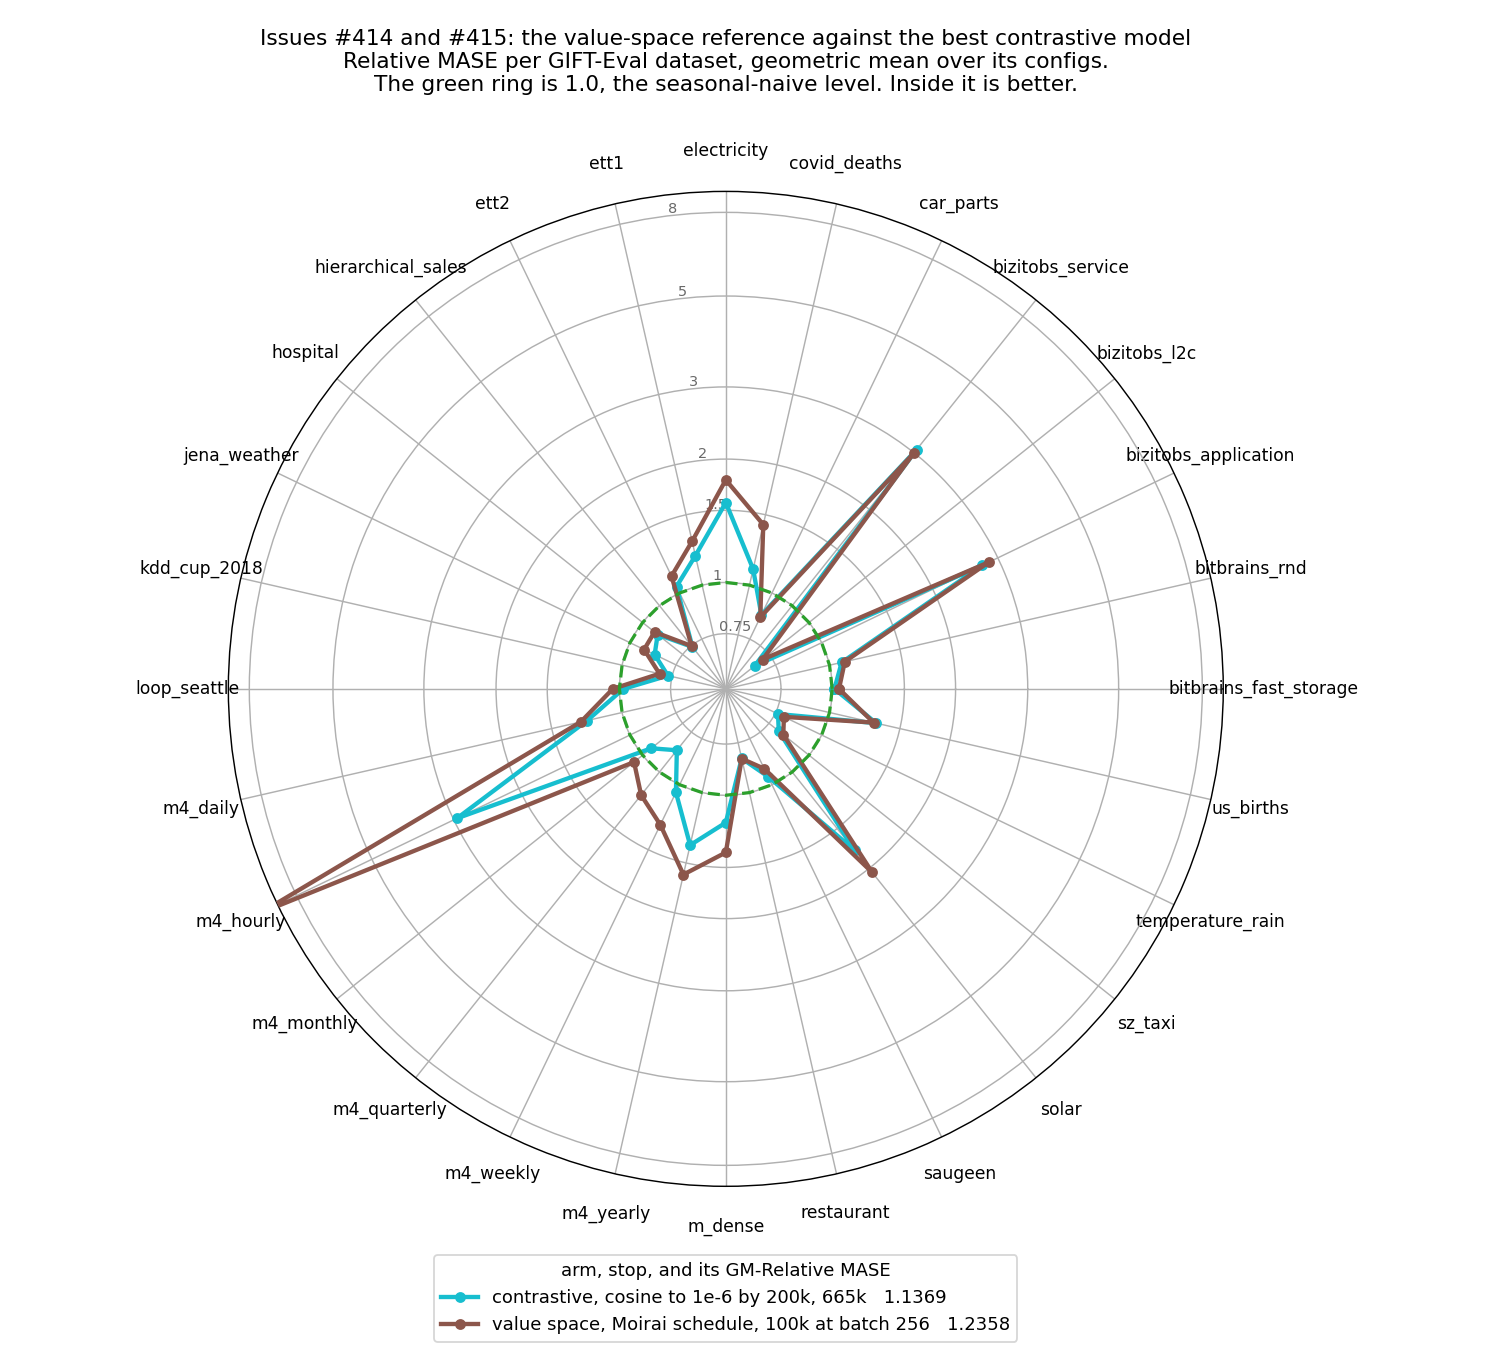
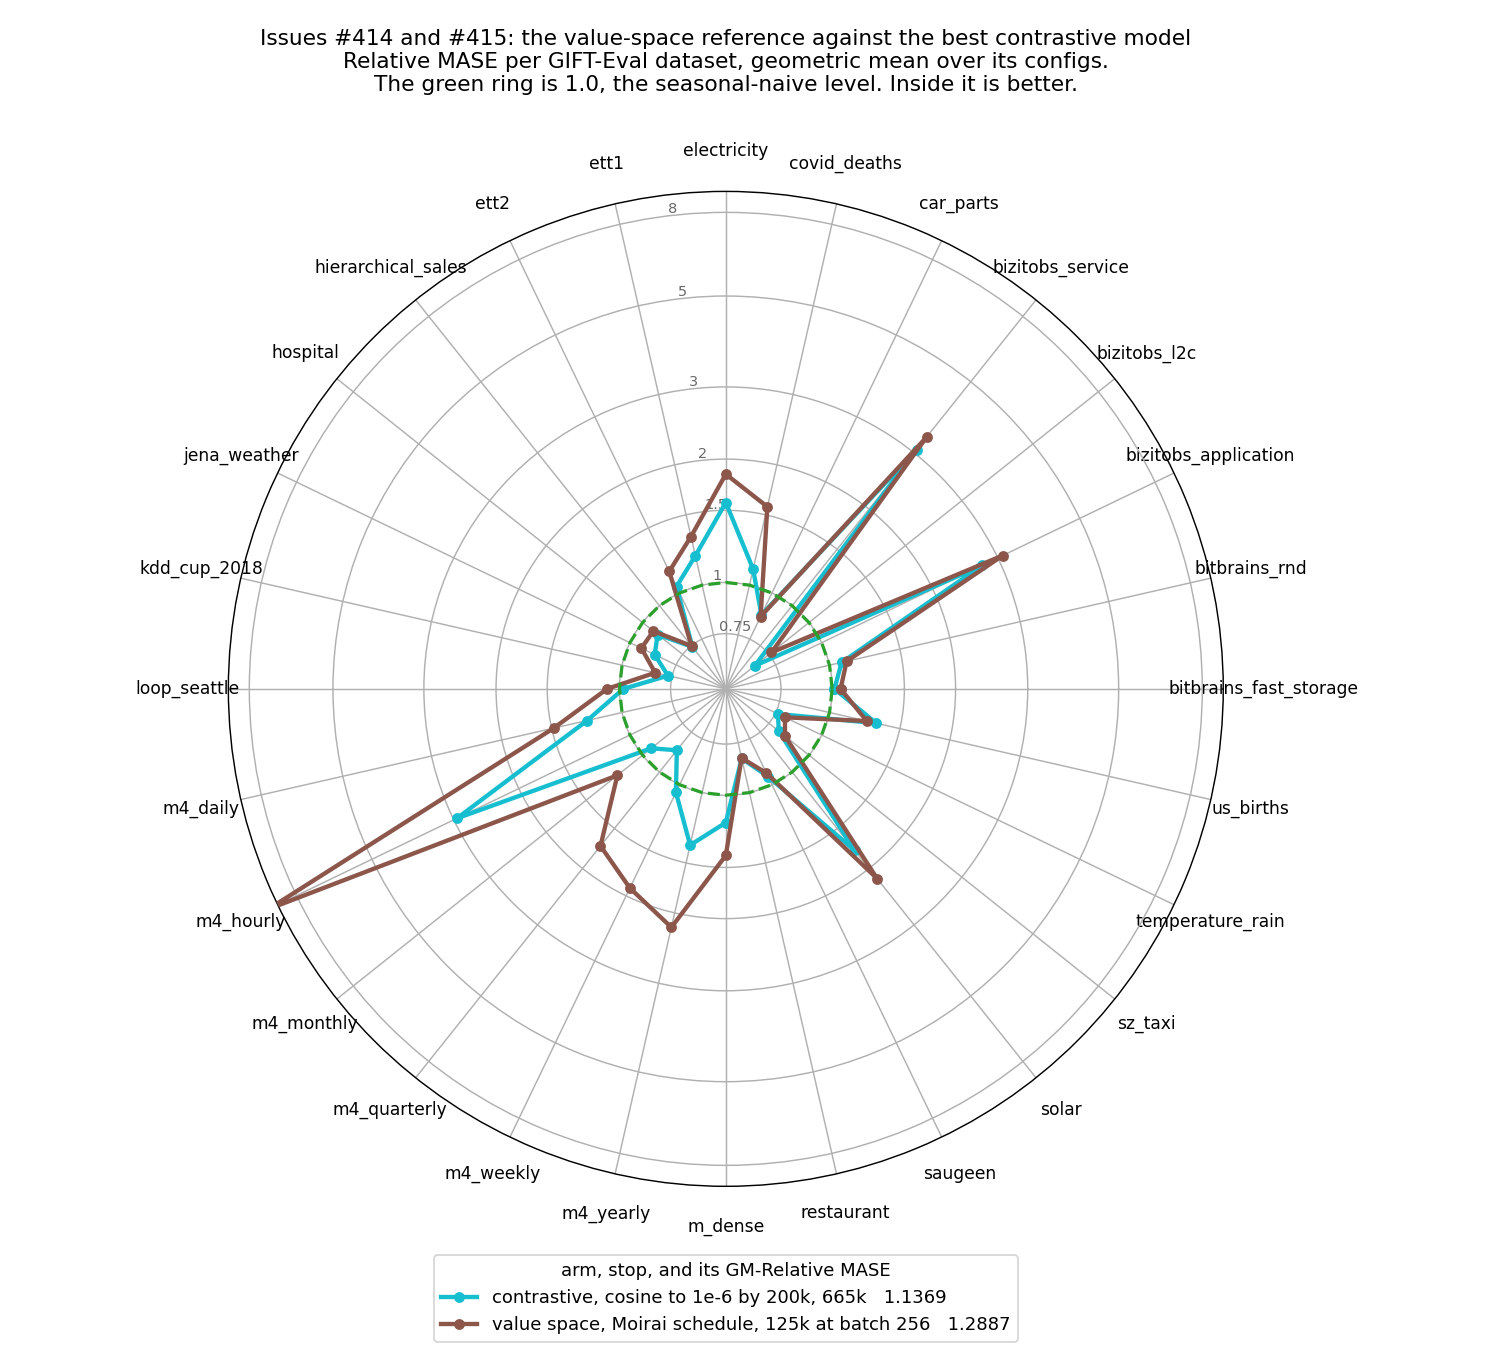
exp(#415): the Moirai-schedule run scores 1.2887 at 125k, up from 1.2358
The rise comes mostly from the M4 sets.

diff --git a/reports/2026-09-06_moirai_small_size/scripts/plot_radar_value.py b/reports/2026-09-06_moirai_small_size/scripts/plot_radar_value.py
@@ -20,7 +20,7 @@ sn = read(SN)
 # The best contrastive run against the value-space reference with the Moirai
 # schedule. The flat-rate run trained without that schedule, so it stays out.
 ARMS = [("cyan665",    "contrastive, cosine to 1e-6 by 200k, 665k   1.1369", "#17becf"),
-        ("moirai100k", "value space, Moirai schedule, 100k at batch 256   1.2358", "#8c564b")]
+        ("moirai125k", "value space, Moirai schedule, 125k at batch 256   1.2887", "#8c564b")]
 
 per_ds = {}
 for name, _, _ in ARMS:

diff --git a/reports/2026-09-06_moirai_small_size/moirai_small_size.md b/reports/2026-09-06_moirai_small_size/moirai_small_size.md
@@ -72,11 +72,13 @@ no `L_rep` and no `L_align`. It follows the Moirai recipe: batch 256, AdamW at
 of 1.0.
 
 It scores 1.6318 at 10,000 steps, the end of its warmup, 1.5283 at 25,000,
-1.3494 at 50,000, 1.2491 at 75,000 and 1.2358 at 100,000. At the same data,
-400,000 steps at batch 64, the contrastive run scored 1.1477. Against the
-contrastive run at 665,000 steps, the reference at 100,000 steps is worse on 24
-of the 28 datasets, and better on bizitobs_service, saugeen, us_births and
-car_parts.
+1.3494 at 50,000, 1.2491 at 75,000, 1.2358 at 100,000 and 1.2887 at 125,000.
+At the same data as its best stop, 400,000 steps at batch 64, the contrastive
+run scored 1.1477. Against the contrastive run at 665,000 steps, the reference
+at 100,000 steps is worse on 24 of the 28 datasets, and better on
+bizitobs_service, saugeen, us_births and car_parts. From 100,000 to 125,000
+steps it gets worse on 25 datasets, most on the M4 sets: m4_weekly by 48%,
+m4_quarterly by 44% and m4_yearly by 36%.
 
 A first run of the reference used a flat 1e-3 with no warmup and no clip. Its
 loss spiked four times, its best score was 1.2951 at 25,000 steps, and the owner
@@ -108,7 +110,7 @@ counts its steps at batch 256.
 | cosine 6e-5 to 1e-6 over 665,000 | 1.1646 | 100,000 | 1.2738 | 600,000 |
 | cosine 5.6e-5 to 1e-6 by 200,000, then 1e-6 | 1.1369 | 665,000 | 1.1432 | 1,330,000 |
 | value space, flat 1e-3 | 1.2951 | 25,000 | 1.4482 | 90,000 |
-| value space, Moirai schedule | 1.2358 | 100,000 | 1.2358 | 100,000 |
+| value space, Moirai schedule | 1.2358 | 100,000 | 1.2887 | 125,000 |
 
 `results/gm_trajectories.tsv` holds every scored stop of the card, one row per
 stop. `scripts/gm_trajectories.py` builds it from the score files.
@@ -136,7 +138,7 @@ no separate recipe for its 0.946 run.
 
 | | Moirai 1.0 Small, GIFT-Eval Pretrain | value space, Moirai schedule (#415) | contrastive, cosine by 200,000 |
 |---|---|---|---|
-| GM-Relative MASE | 0.946 | 1.2358 at 100,000 steps, so far | 1.1369 |
+| GM-Relative MASE | 0.946 | 1.2358 at 100,000 steps, its best so far | 1.1369 |
 | parameters | 14M | 11.4M | 11.4M |
 | body | masked encoder, 6 layers | 3 encoder and 3 forecaster layers | the same |
 | patch | 8 to 128, set by the frequency | 16 | 16 |
